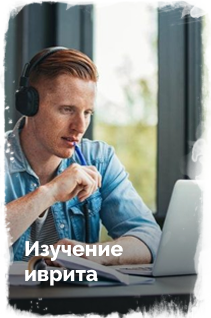
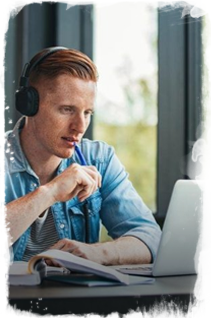
несущественные изменения
* небольшие правки в блоке Как поехать
* неудачная попытка выстроить сетку для ЖИЗНЬ В ИЗРАИЛЕ
* размечен, но не стилизован блок Узнать подробности

Changed region(s): [[0.1137, 0.7358, 0.5972, 0.8208], [0.1137, 0.8491, 0.4834, 0.9057]]

diff --git a/source/index.html b/source/index.html
@@ -48,7 +48,9 @@
                     Более 250 учебных программ (60 на русском) и возможность стажировки в Израиле.<br>В течение освоения
                     программ предусмотрен грант от 4200 до 8400$.</p>
                 <div class="photo_about">
-                    <img src="img/photo_about.png" alt="photo_about" width="870" height="460">
+                    <img src="img/photo_about.png"
+                        alt="совместный проект правительства Израиля и Еврейского агентства Сохнут" width="870"
+                        height="460">
                 </div>
             </div>
         </section>
@@ -110,8 +112,8 @@
                         <input class="phone-form" type="tel" name="phone" id="call" placeholder="телефон" rows="3">
                     </label>
                     <button class="callback" type="submit">перезвоните мне</button>
-                    <img class="i-want-go__girlFlag" src="img/i-want-go-girl-flag-bg.png" alt="i-want-go-girl-flag"
-                        width="818" height="594">
+                    <img class="i-want-go__girlFlag" src="img/i-want-go-girl-flag-bg.png" alt="Хочу поехать" width="818"
+                        height="594">
                 </div>
             </div>
         </section>
@@ -155,35 +157,24 @@
                             его жителей.</p>
                     </div>
                     <div class="life-in-israel__items">
-                        <img src="img/life-in-israel-tour.png" alt="Экскурсии" width="482" height="732">
-                        <img src="img/life-in-israel-Hebrew.png" alt="иврит" width="211" height="318">
-                        <img src="img/life-in-israel-study.png" alt="Обучение" width="411" height="318">
-                        <img src="img/life-in-israel-creation.png" alt="проекты" width="411" height="318">
-                        <img src="img/life-in-israel-develop.png" alt="Развитие" width="214" height="318">
-
-                        <!-- <div class="life-in-israel__tour">
-                            <img src="img/life-in-israel-tour.png" alt="Экскурсии" width="482" height="732">
+                        <div class="life-in-israel__tour">
                             <p class="life-in-israel__items--about">Экскурсии по Израилю<br>и знакомство с его историей
                             </p>
                         </div>
-                        <div>
-                            <img src="img/life-in-israel-Hebrew.png" alt="иврит" width="211" height="318">
-                            <p class="life-in-israel__items--about">Изучение иврита</p>
+                        <div class="life-in-israel__hebrew">
+                            <p class="life-in-israel__items--about">Изучение<br>иврита</p>
                         </div>
-                        <div>
-                            <img src="img/life-in-israel-study.png" alt="Обучение" width="411" height="318">
-                            <p class="life-in-israel__items--about">Обучение современным навыкам и профессиям</p>
+                        <div class="life-in-israel__study">
+                            <p class="life-in-israel__items--about">Обучение современным<br>навыкам и профессиям</p>
                         </div>
-                        <div>
-                            <img src="img/life-in-israel-creation.png" alt="проекты" width="411" height="318">
+                        <div class="life-in-israel__creation">
                             <p class="life-in-israel__items--about">Совместные творческие проекты<br>с израильской
                                 молодёжью
                             </p>
                         </div>
-                        <div>
-                            <img src="img/life-in-israel-develop.png" alt="Развитие" width="214" height="318"> 
+                        <div class="life-in-israel__develop">
                             <p class="life-in-israel__items--about">Развитие<br>лидерства</p>
-                        </div> -->
+                        </div>
                     </div>
                 </div>
             </div>
@@ -274,6 +265,42 @@
                         </a>
                     </div>
                 </div>
+            </div>
+        </section>
+        <section class="map">
+            <div class="container">
+                <h2>Узнать подробности</h2>
+                <div>
+                    <p>Ваш город: <a href="#">новосибирск</a></p>
+                    <p>Ваш куратор: <span>Анна Горелик</span></p>
+                    <p>Новосибирск, ул. Щетинкина 68, культурный центр «Бейт Менахем»</p>
+                    <div>
+                        <a href="#">
+                            <img src="img/comments-facebook.svg" alt="facebook">
+                        </a>
+                        <a href="#">
+                            <img src="" alt="whatsapp">
+                        </a>
+                        <a href="#">
+                            <img src="" alt="telegram">
+                        </a>
+                    </div>
+                    <p>Куратор является опытным специалистом агентства Сохнут и знает о проекте «Маса» всё! Свяжитесь с
+                        куратором,узнайте подробнее о программах и выберите свою ! </p>
+                </div>
+                <div>
+                    <p>Оставьте ваши контакты, если у вас остались вопросы — мы на них ответим!</p>
+                    <p>Мы не передаём данные третьим лицам. Ваши данные будут в безопасности и вам не придёт спам от
+                        нас!</p>
+                        <label for="">
+                            <input type="text" name="" id="" placeholder="имя" rows="3">
+                        </label>
+                        <label for="">
+                            <input type="tel" name="" id="" placeholder="+7 (923) 41" rows="3">
+                        </label>
+                        <button  type="submit">перезвоните мне</button>
+                </div>
+                <button></button>
             </div>
         </section>
     </main>

diff --git a/source/sass/style.css b/source/sass/style.css
@@ -473,16 +473,21 @@ a {
     font-weight: 500;
     font-size: 17px;
     line-height: 170%;
-    padding-left: 20px;
     padding-left: 68px;
+    width: 520px;
 }
 
 .how-to-go__list {
-    margin: 0;
-    padding-top: 18px;
+    position: relative;
+    margin-top: 0px;
+    margin-right: 0px;
+    margin-bottom: 0px;
+    margin-left: 33px;
+
+    padding-top: 33px;
     padding-right: 0px;
     padding-bottom: 20px;
-    padding-left: 44px;
+    padding-left: 79px;
     list-style: none;
 
     font-style: normal;
@@ -499,16 +504,13 @@ a {
 }
 
 .how-to-go__list__point::before {
+    position: absolute;
+    left: 10px;
     counter-increment: my;
     content: counter(my);
     color: #FFC341;
     background: #FFFFFF;
-    display: inline-block;
     text-align: center;
-    margin-top: 5px;
-    margin-right: 23px;
-    margin-bottom: 2px;
-    margin-left: 10px;
     line-height: 40px;
     width: 36px;
     height: 36px;
@@ -547,7 +549,14 @@ a {
 
 /* life-in-israel */
 
+.life-in-israel {
+    position: relative;    
+}
+
 .life-in-israel__wrapper {
+    background: url(../img/life-in-israel_Bg.png), url(../img/life-in-israel-watch.png);
+    background-repeat: no-repeat;
+    background-position: 50% 11%, 100% 66%;
     margin-bottom: 150px;
 }
 
@@ -575,10 +584,43 @@ a {
 .life-in-israel__items {
     display: flex;
     flex-wrap: wrap;
+    justify-content: center;
+    align-items: flex-start;
 }
 
 .life-in-israel__tour {
+    background: url(../img/life-in-israel-tour.png);
+    background-repeat: no-repeat;
+    width: 482px;
+    height: 732px;
+}
 
+.life-in-israel__hebrew {
+    background: url(../img/life-in-israel-Hebrew.png);
+    background-repeat: no-repeat;
+    width: 211px;
+    height: 318px;
+}
+
+.life-in-israel__study {
+    background: url(../img/life-in-israel-study.png);
+    background-repeat: no-repeat;
+    width: 411px;
+    height: 318px;
+}
+
+.life-in-israel__creation {
+    background: url(../img/life-in-israel-creation.png);
+    background-repeat: no-repeat;
+    width: 411px;
+    height: 318px;
+}
+
+.life-in-israel__develop {
+    background: url(../img/life-in-israel-develop.png);
+    background-repeat: no-repeat;
+    width: 214px;
+    height: 318px;
 }
 
 .life-in-israel__items--about {
@@ -745,12 +787,10 @@ a {
     display: flex;
     justify-content: space-around;
     margin-bottom: 30px;
-
+    border-top: 1px solid #dadada;
+    padding-top: 20px;
 }
 
-.logo-footer {
-
-}
 
 .copyright {
     margin: 0;
